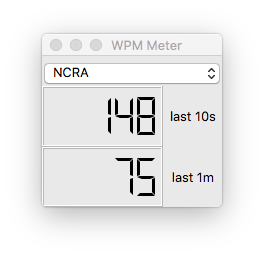
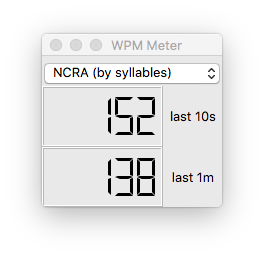
Update documentation to show strokes meter and new definition of "word"

diff --git a/README.md b/README.md
@@ -1,17 +1,30 @@
 # About
 
-This is a plugin for Plover to display your typing speed, in words per minute,
-as you type. Words per minute is calculated in one of two ways:
+This is a plugin for Plover to display your typing speed as you type, in either
+or both of words per minute or strokes per minute:
+
+  * **Words per minute**: Shows the rate at which you stroked words in the last
+    10 and 60 seconds.
+  * **Strokes per minute**: Shows how efficiently you stroked words in the last
+    10 and 60 seconds. Lower values are more efficient, e.g. a value of 1 means
+    that on average it took you one stroke to write out a word.
+
+A word is defined in one of three ways:
 
   * **NCRA**: The [National Court Reporters Association](https://www.ncra.org/)
     defines a "word" as 1.4 syllables. This is the measure used for official
     NCRA testing material.
   * **Traditional**: The traditional metric for "word" in the context of
-    keyboarding is defined to be 5 characters per word, including spaces.
+    keyboarding is defined to be 5 characters per word, including spaces. This
+    is compatible with the notion of "word" in many typing speed utilities.
+  * **Spaces**: A word is a whitespace-separated sequence of characters. This
+    metric of course doesn't take into account the fact that some words are
+    longer than others, both in length and syllables.
 
-It looks like this:
+The meters look like this:
 
 ![The WPM meter in action](media/wpm-meter.png)
+![The strokes meter in action](media/strokes-meter.png)
 
 # Installation
 
